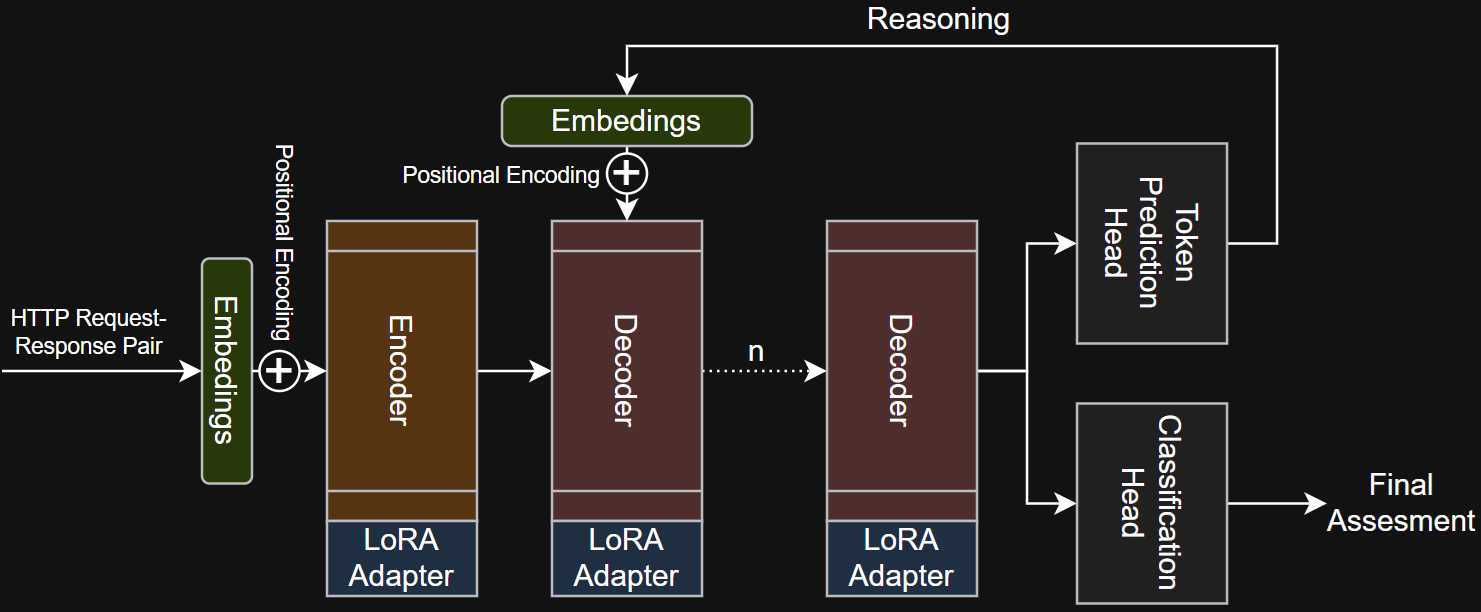
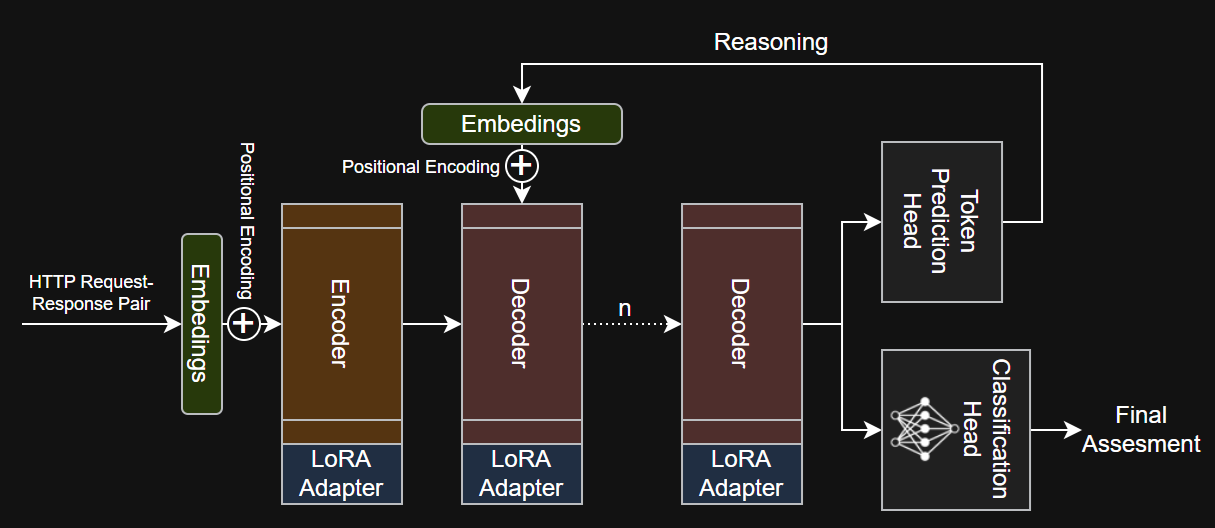
Added second architecture, training and evaluation

Changed region(s): [[0.0, 0.0, 0.8831, 1.0], [0.7004, 0.6364, 1.0, 1.0]]

diff --git a/src/trainer.py b/src/trainer.py
@@ -1,0 +1,44 @@
+from transformers import AutoTokenizer, TrainingArguments, Trainer
+from dotenv import load_dotenv
+import os
+from peft import LoraConfig, get_peft_model
+from datasets import load_dataset
+from JanusLModel import JanusSequenceClassification
+
+load_dotenv()
+model_path = os.getenv("MODEL_PATH")
+
+def StartTraining():
+    # Prepare the training data
+    tokenizer = AutoTokenizer.from_pretrained(model_path)
+    dataset = load_dataset("json", data_files="lora_dataset/dataset.jsonl")
+    def tokenize_fn(example):
+        tokens = tokenizer(example["text"], truncation=True, padding="max_length", max_length=256)
+        tokens["labels"] = example["label"]
+        return tokens
+    tokenized = dataset.map(tokenize_fn)
+
+    # Load JanusLM model and define training
+    model = JanusSequenceClassification(num_labels=2)
+    training_args = TrainingArguments(
+        output_dir="./classifier_output",
+        per_device_train_batch_size=4,
+        learning_rate=1e-4,
+        num_train_epochs=3,
+        logging_steps=10,
+        save_total_limit=1
+    )
+    trainer = Trainer(
+        model=model,
+        args=training_args,
+        train_dataset=tokenized["train"],
+    )
+    trainer.train()
+    model.save_pretrained("./lora_adapter")
+
+def LoadTrained():
+    #Loading
+    #from peft import PeftModel
+    #base = AutoModelForCausalLM.from_pretrained("meta-llama/Llama-2-7b-chat-hf")
+    #model = PeftModel.from_pretrained(base, "./lora_adapter")
+    pass

diff --git a/src/JanusLModel.py b/src/JanusLModel.py
@@ -1,0 +1,31 @@
+from transformers import AutoModelForCausalLM
+import torch
+import torch.nn as nn
+
+class JanusSequenceClassification(nn.Module):
+    def __init__(self, num_labels):
+        super().__init__()
+        self.base = base_model = AutoModelForCausalLM.from_pretrained("meta-llama/Llama-2-7b-chat-hf", torch_dtype="auto", device_map="auto")
+        self.classifier = nn.Linear(base_model.config.hidden_size, num_labels)
+
+    def forward(self, input_ids, attention_mask=None, labels=None):
+        # Get the output of last hidden layer
+        outputs = self.base.model(
+            input_ids=input_ids,
+            attention_mask=attention_mask,
+            output_hidden_states=True
+        )
+        last_hidden = outputs.hidden_states[-1]
+        
+        # First approach would be to take a mean
+        # But I would like to add additinal trained dense network here
+        pooled = last_hidden.mean(dim=1)
+        logits = self.classifier(pooled)
+
+        # Loss function via simple softmax
+        loss = None
+        if labels is not None:
+            loss_fct = nn.CrossEntropyLoss()
+            loss = loss_fct(logits.view(-1, self.classifier.out_features), labels.view(-1))
+
+        return {"loss": loss, "logits": logits}

diff --git a/README.md b/README.md
@@ -5,43 +5,99 @@ Reasoning Classification Dual-Head Transformer with LoRA-Based Fine-Tuning for W
 
 This project proposes and evalutes a Dual-Head Large Language Model (LLM) Architecture with Parameter-Efficient Fine-Tuning (LoRA - Low-Rank Adaptation) designed for joint generative reasoning and cyber-security classification tasks.
 
-By using LoRA (Low-Rank Adaptation), the model can efficiently adapt to security assesment tasks without changing the original base weights, keeping the reasoning power of the pretrained LLM minimally impacted while adding security domain specific intelligence.
+By using LoRA (Low-Rank Adaptation), the model can efficiently adapt to perform security analysis tasks without changing the original base weights, keeping the reasoning power of the pretrained LLM minimally impacted while adding security domain specific intelligence.
 
-Dual-head design provides a multi-purpose inference, where the pre-trained and fine-tuned generative head creates detailed reasoning and the manually trained classification head delivers predictions.
+Dual-head design provides a multi-purpose inference, where the pre-trained and fine-tuned generative head creates detailed analysis and the manually trained classification head delivers prediction.
 
 ## Goal
 
-Locally served LLM that would be capable of analysing HTTP request / response pair and clasify it from the cyber-security perspective.
+Locally served customized LLM that would be capable of analysing HTTP request / response pair and clasify it from the cyber-security perspective.
 
 ## Architecture
 
+### Proposal 1: Classification based on Decoder's hidden state
 ![JanusLM Architecture](imgs/architecture.png)
 
+### Proposal 2: Classification based on embedings
+![JanusLM Architecture](imgs/architecture2.png)
 
 ## Key Features
 
-- Based on llama-cpp-python (initial model `Llama-2 13B`)
-- PEFT (LoRA) based on classified request/response pairs.
-- 2 heads - reasoning and classification head
-- Locally hosted via OpenAI API
+- This framework can be applied on any model.
+- PEFT (LoRA) for analysis process on request / response pairs.
+- Posibility to swap LoRA matrices for different analysis types.
+- Fully trained Classification head (Multi-Layer Perceptron) for classification tasks.
+- Designed to be locally hosted on user device.
 
-## Training Data
+## Training
+
+### 1. Phase:
+LoRA fine-tuning for improved analysis reasoning on request / response pair. To be performed via pre-defined high-quality `x` examples of what kind of analysis/reasoning should be performed.
+
+Data to be prepared in the format:
+```json
+[{"input": "Analyze this HTTP request/response: GET /admin ...", 
+ "output": "User provided request for admin interface without cookies with valid response, indicating that application can be accesses unauthenticated. Additionally, response was missing HSTS security header."},...]
+```
+
+### 2. Phase:
+*Still in design progress...*
+
+Full MLP (Multi-layered perceptron) training for data classification performed on the output of the last hidden state. (probably mean of all outputs)
+
+Data to be prepared in the format:
+```json
+[{"input": "Analyze this HTTP request/response: GET /admin ... + reasoning", 
+ "label": 0}]
+```
 
 ## Evaluation
+
+### Metrics
+Definition of terms:
+- $TP$ - True Positive, correctly marked finding.
+- $FP$ - False Positive, incorrectly marked finding.
+- $TN$ - True Negative, correctly marked input as safe.
+- $FN$ - False Negative, missed finding.
+
+#### Precision
+
+Calculation of how many marked findings were actually correct:
+$$Precision = \frac{TP}{TP+FP}$$
+
+#### Accuracy
+
+Overall correctness:
+$$Accuracy = \frac{TP+TN}{TP+FP+TN+FN}$$
+
+### Results
+To be done:
+
+1. Comparison of proposal 1 and proposal 2
+2. Evaluation of different models on accuracy.
+3. Evaluation of different size/shape of classification head on accuracy.
+4. Evaluation of reasoning length on accuracy.
+5. Evaluation of fine-tuning approaches / effect of sample size on accuracy.
 
 ## Pre-Requisities
 
 - llama-cpp-python:
     pre-built wheel with basic CPU support:
     ```bash
-    pip install llama-cpp-python \
-    --extra-index-url https://abetlen.github.io/llama-cpp-python/whl/cpu
+    pip install -r requirements
     ```
 - default model `llama-2-13b`
+
+## Getting Started
+
+1. Create `.env` file with following:
+```python
+MODEL_PATH="<path_to_llama-3.2-model>"
+```
 
 ## Execution
 
 ```bash
-...
+...to be done...
 ```
 
